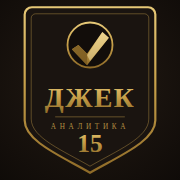
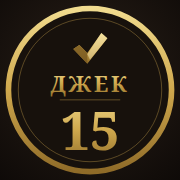
Новая иконка приложения: медальон

diff --git a/index.html b/index.html
@@ -11,7 +11,7 @@
 <title>ДЖЕК</title>
 <meta name="theme-color" content="#1a1410">
 <link rel="manifest" href="manifest.webmanifest">
-<link rel="apple-touch-icon" href="icons/icon-180.png">
+<link rel="apple-touch-icon" href="icons/icon-180.png?v=3">
 <meta name="apple-mobile-web-app-capable" content="yes">
 <meta name="mobile-web-app-capable" content="yes">
 <meta name="apple-mobile-web-app-title" content="ДЖЕК 15">
@@ -30,7 +30,7 @@ body{margin:0; font:14px/1.5 system-ui, -apple-system, "Segoe UI", sans-serif; b
 img{max-width:100%}
 [hidden]{display:none !important}
 </style>
-<link rel="stylesheet" href="styles.css?v=20261004f">
+<link rel="stylesheet" href="styles.css?v=20261004g">
 </head>
 <body>
 
@@ -289,9 +289,9 @@ img{max-width:100%}
   </footer>
 </div>
 
-<script src="config.js?v=20261004f"></script>
-<script src="app.js?v=20261004f"></script>
-<script src="visual.js?v=20261004f"></script>
+<script src="config.js?v=20261004g"></script>
+<script src="app.js?v=20261004g"></script>
+<script src="visual.js?v=20261004g"></script>
 
 <script data-goatcounter="https://dzhek15.goatcounter.com/count" async src="https://gc.zgo.at/count.js"></script>
 </body>
